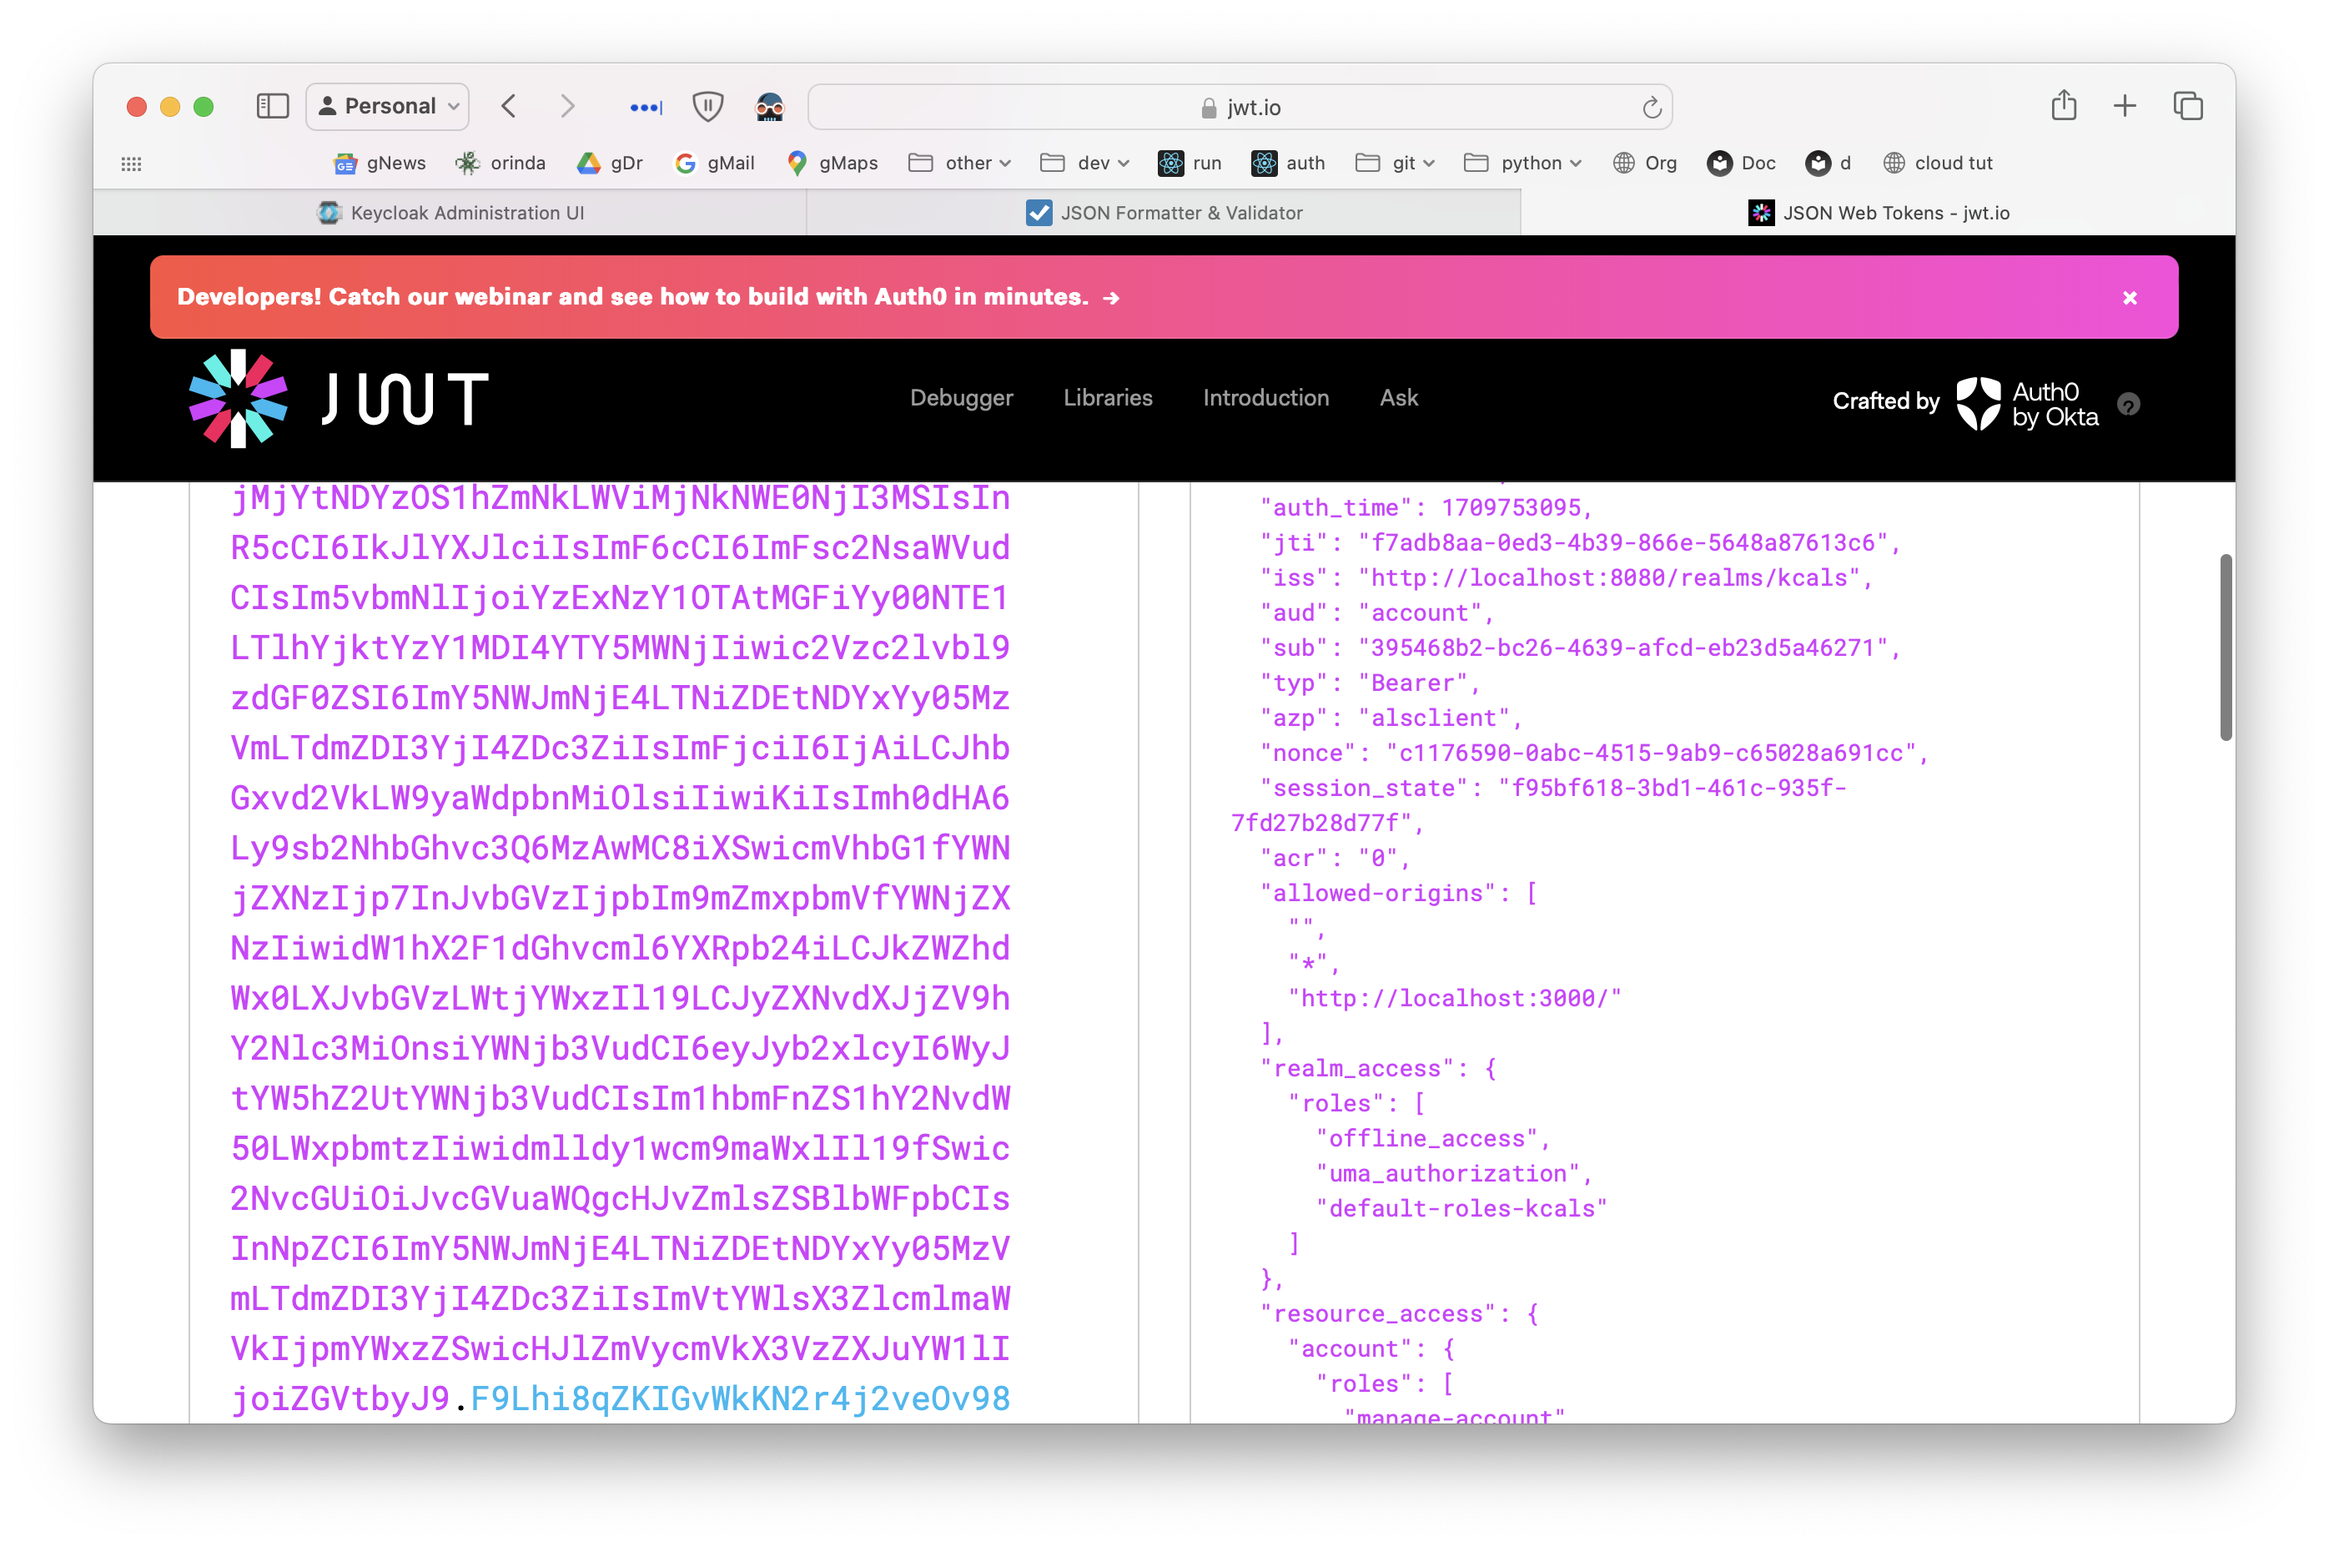
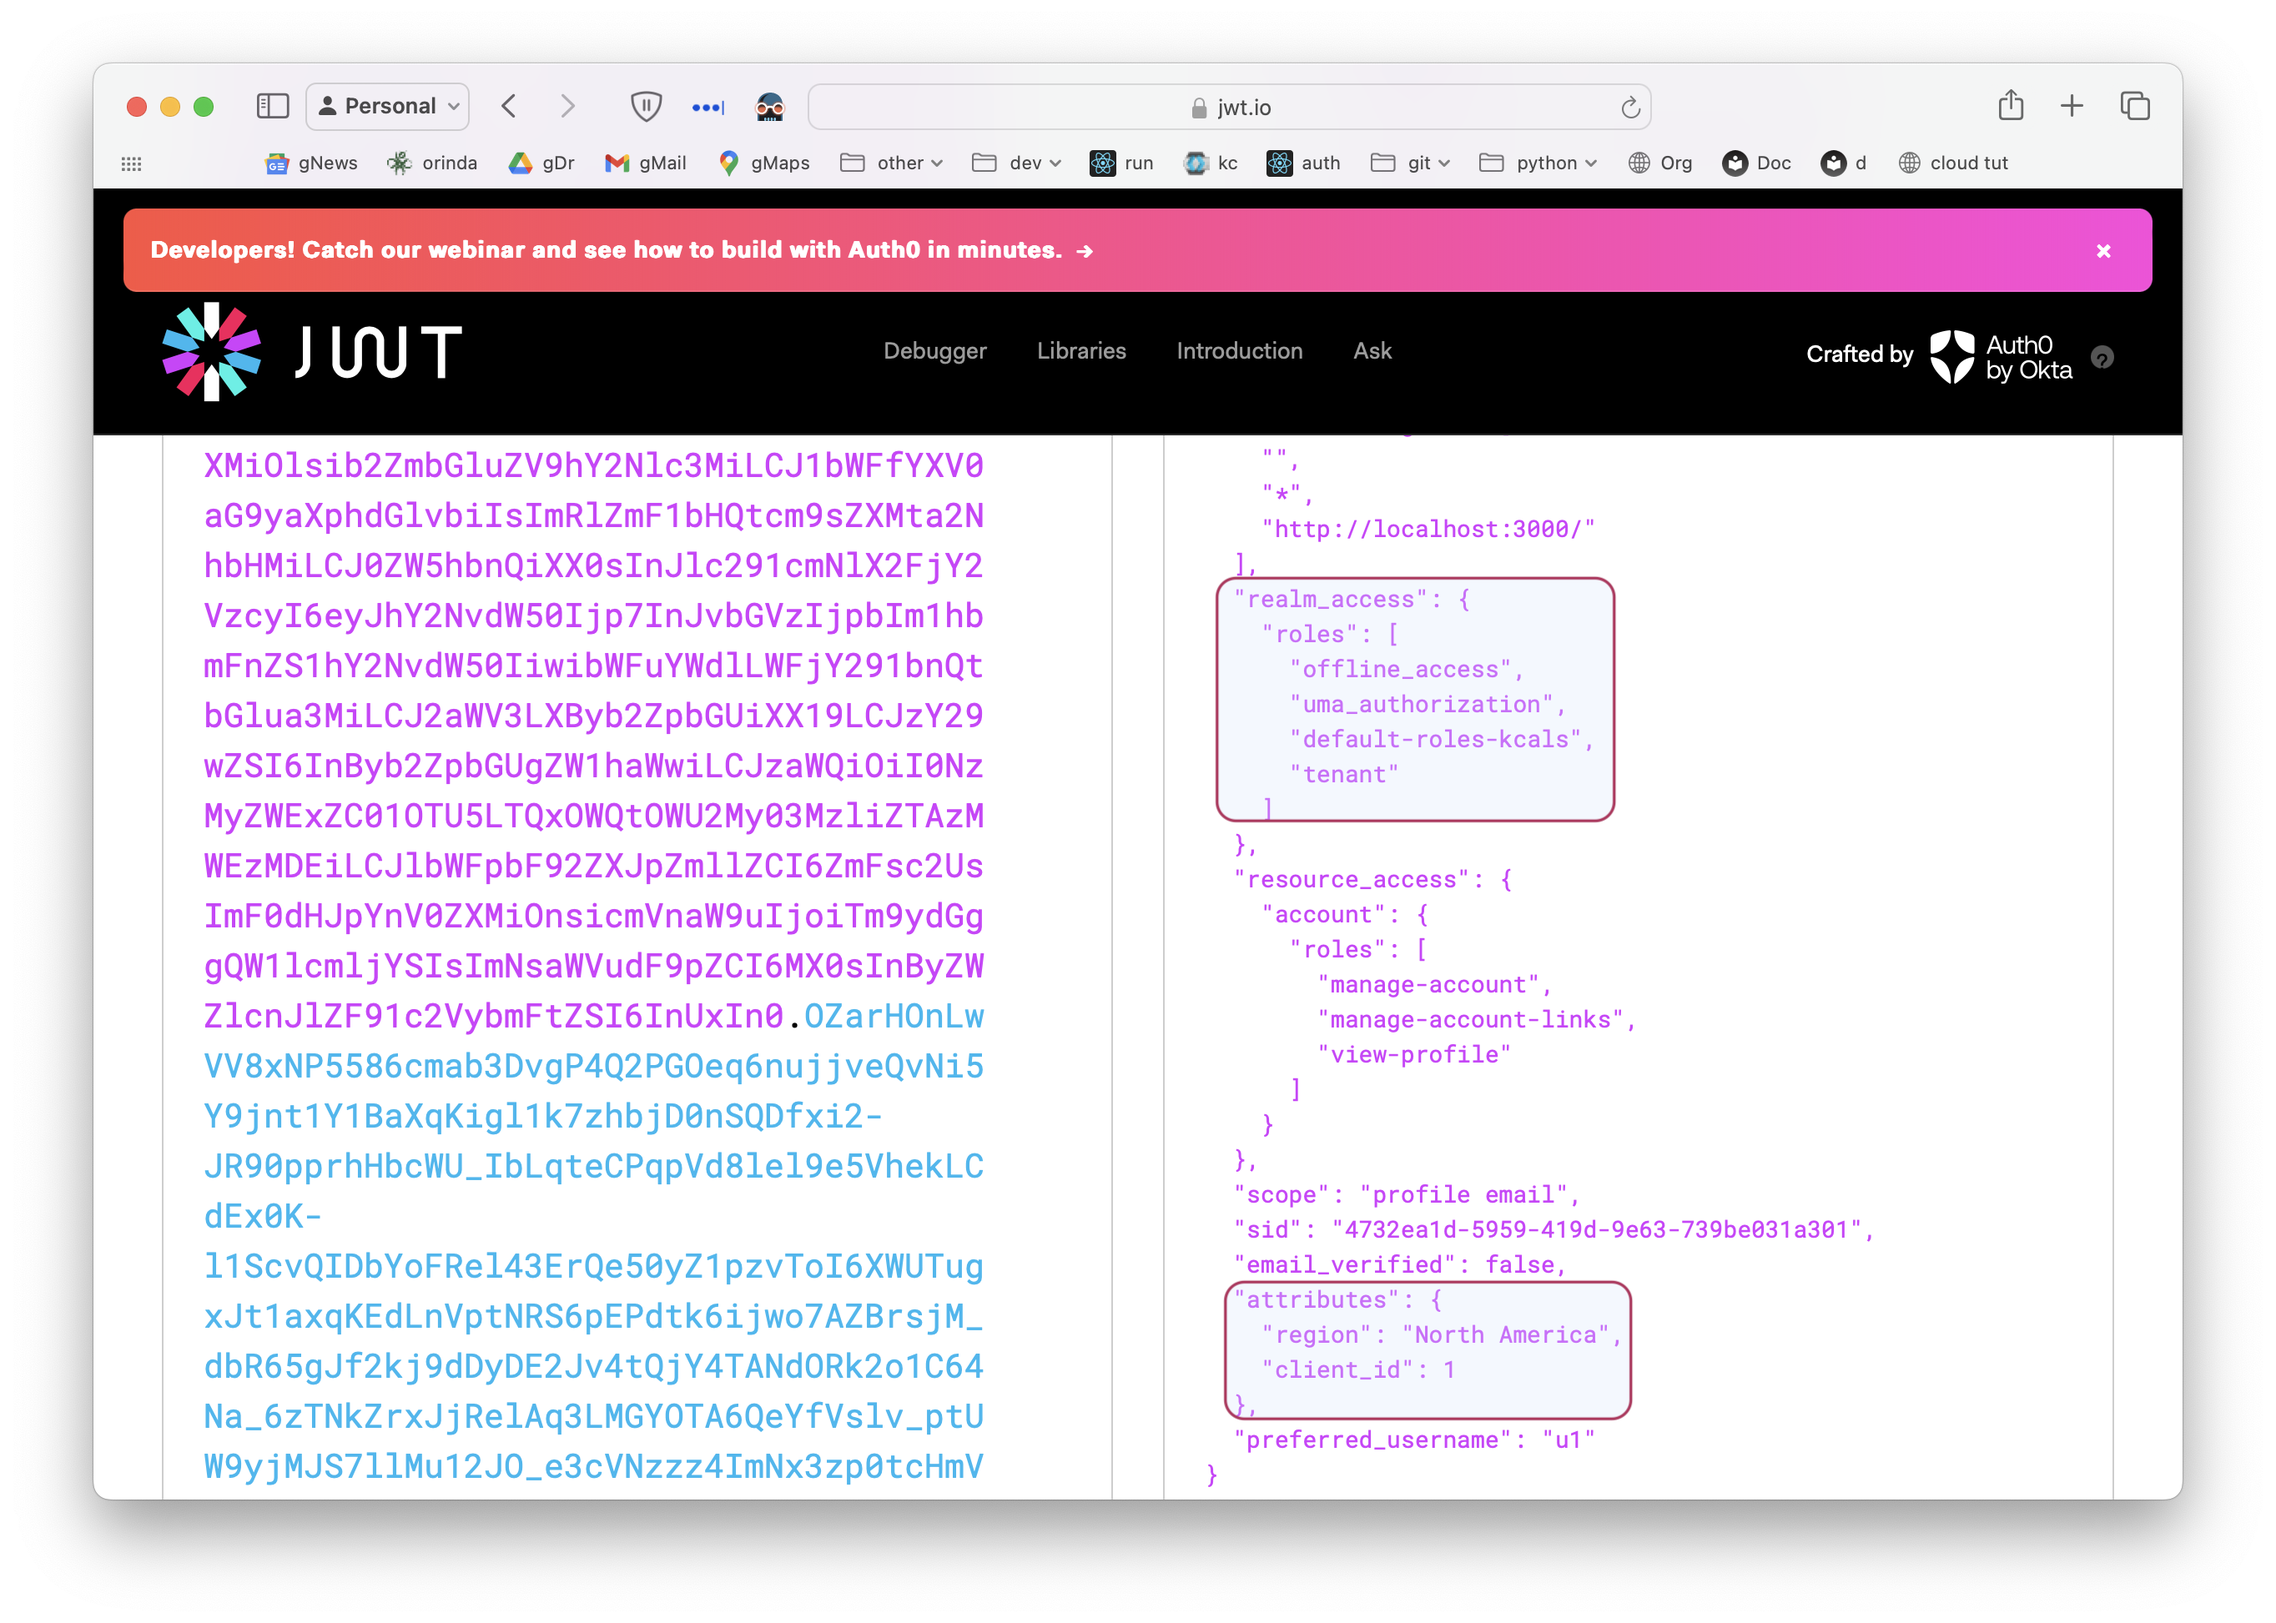
wip - u1 category fails - wrong roles?

Changed region(s): [[0.0312, 0.0307, 0.9659, 0.9223], [0.9348, 0.3689, 0.9659, 0.4919], [0.9036, 0.8916, 0.9348, 0.9223]]

diff --git a/security/authentication_provider/keycloak/auth_provider.py b/security/authentication_provider/keycloak/auth_provider.py
@@ -119,6 +119,9 @@ class Authentication_Provider(Abstract_Authentication_Provider):
         rtn_user.password_hash = None
 
         # get extended properties (e.g, client_id in sample app)
+        attributes = jwt_data['attributes']
+        for each_name, each_value in attributes.items():
+            rtn_user[each_name] = each_value
 
         rtn_user.UserRoleList = []
         role_names = jwt_data["realm_access"]["roles"]

diff --git a/Readme.md b/Readme.md
@@ -22,7 +22,7 @@ This will run keycloak on the docker host (use admin, password):
 
 ### Define Users and Roles
 
-This works - you can define users, and they are available (with their roles) at runtime:
+This works - you can define users, and they are available (with their roles) at runtime (see the jwt.io screenshot, below):
 
 ![Users](images/kc-users.png)
 
@@ -36,10 +36,15 @@ And, [using this](https://www.baeldung.com/keycloak-custom-user-attributes), reg
 
 ![kc-client-attr-mapper](images/kc-client-attr-mapper.png)
 
-But unable to access:
+You must provide the `Token Claim Name`:
 
-![Users](images/kc-attrs-access.png)
+![kc-client-attr-mapper-def](images/kc-client-attr-mapper-def.png)
 
+### Authorization Failing
+
+Login as u1.   Somehow, the `customer` role is assigned, which makes it fail (return >1 Category).
+
+&nbsp;
 
 ## Test:
 
@@ -56,7 +61,7 @@ TOKEN_ENDPOINT=$(curl ${KC_BASE}/.well-known/openid-configuration | jq -r .token
 echo "TOKEN_ENDPOINT: ${TOKEN_ENDPOINT} \n"
 
 echo "retrieve an access token by logging in "
-TOKEN=$(curl ${TOKEN_ENDPOINT} -d 'grant_type=password&client_id=alsclient' -d 'username=demo' -d 'password=demo' | jq -r .access_token)
+TOKEN=$(curl ${TOKEN_ENDPOINT} -d 'grant_type=password&client_id=alsclient' -d 'username=u1' -d 'password=p' | jq -r .access_token)
 echo "TOKEN: ${TOKEN} \n"
 
 # test the authentication
@@ -94,7 +99,7 @@ Several changes to adapt the original poc to API Logic Server structure:
 
 ### Inspecting Access Tokens
 
-You can usejwt.io:
+You can use jwt.io:
 
 ![jwt.io](images/jwt.io.png)
 
